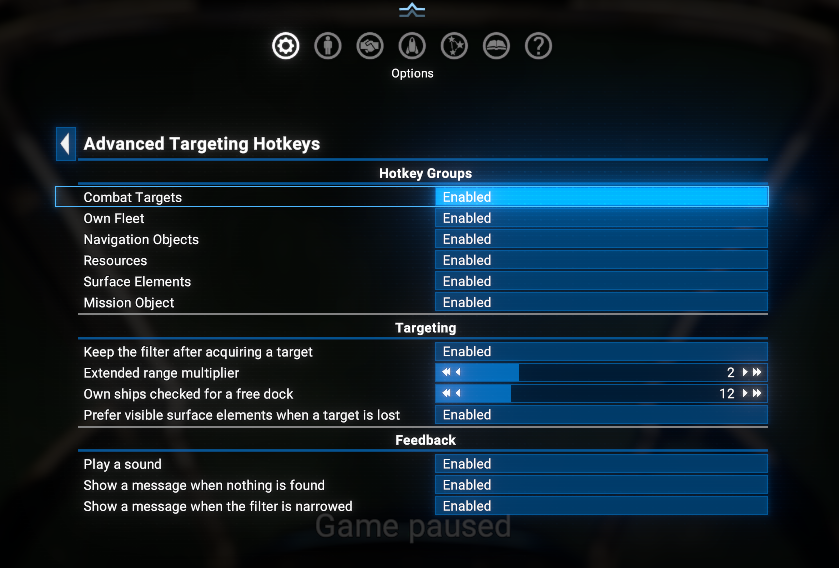
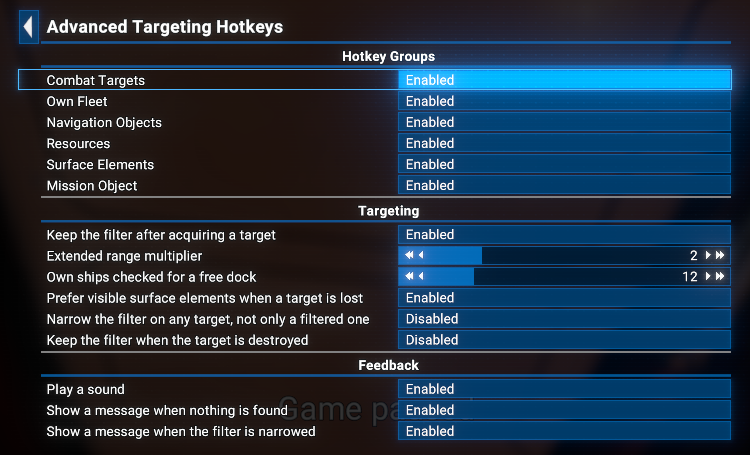
feat: version 1.01, some fixes and improvements

diff --git a/README.md b/README.md
@@ -22,7 +22,7 @@ Losing a target is the one case where the filter isn't dropped. For enemies, inc
 - When the last element of a kind is gone you get **the hull itself**, never a different kind of element, and any type narrowing is cleared with it.
 - If the category is empty, nothing happens at all - no sound, no message, target left alone.
 
-Navigation categories - own ships, stations, gates, asteroids, mission targets - deliberately don't do this.
+Navigation categories - own ships, stations, gates, asteroids, mission targets - deliberately don't do this. By default, destroying the target there drops the filter like any other target change; with **Keep the filter when the target is destroyed** on, the category and any type narrowing stay, and Next/Previous carry on from there.
 
 ## Requirements
 
@@ -40,6 +40,10 @@ Navigation categories - own ships, stations, gates, asteroids, mission targets -
 
 - **Steam Workshop**: [Advanced Targeting Hotkeys](https://steamcommunity.com/sharedfiles/filedetails/?id=3775194109) - only for **Game version 9.00** with latest Steam version of the `UI Extensions and HUD` mod (indirectly).
 - **Nexus Mods**: [Advanced Targeting Hotkeys](https://www.nexusmods.com/x4foundations/mods/2278)
+
+## Save state
+
+**No** (removing the extension does not break saves).
 
 ## Hotkeys
 
@@ -63,7 +67,7 @@ Each of these targets the nearest match and switches the filter to that category
 - **Target Engine on Selected Object** - same, restricted to engines.
 - **Target Turret on Selected Object** - same, restricted to turrets and launchers.
 - **Target Shield Generator on Selected Object** - same, restricted to shield generators.
-- **Target Active Mission Object** - the object your current mission points at.
+- **Target Active Mission Object** - the next thing to fly to for your active mission: the gate or highway entrance on the route to its objective.
 
 The four surface-element hotkeys work on the object **you have selected** and on nothing else: select a carrier across the sector and you get that carrier's turrets, not those of the fighter next to you. With a surface element already selected they stay on the same hull, and so does Next/Previous. With nothing selected they fall back to the last hull you worked on; with no previous hull they do nothing and say so. Docked ships are never included, so cycling a carrier's turrets won't wander into its bays.
 
@@ -75,7 +79,7 @@ The four surface-element hotkeys work on the object **you have selected** and on
 - **Target Along Line of Sight** - picks whatever you're looking at.
 - **Narrow Filter to Selected Type** - pins the active filter to the type of the selected object.
 
-**Narrow Filter to Selected Type** needs a target one of this mod's hotkeys put there. It's set-only, not a toggle - pressing it again changes nothing, since everything you can cycle to is already of that type. It goes away exactly when the filter does.
+**Narrow Filter to Selected Type** needs a target one of this mod's category hotkeys put there, and **Keep the filter after acquiring a target** on. With **Narrow the filter on any target** switched on it works on anything you have targeted (a line-of-sight pick, a mouse click): Next/Previous then walk every visible object of that one type. It's set-only, not a toggle - pressing it again changes nothing, since everything you can cycle to is already of that type. It goes away exactly when the filter does.
 
 **Target Along Line of Sight** starts from a one-degree cone dead ahead and widens in steps to 25 degrees, stopping at the first hit, so what's under your crosshair wins over what's merely in front of you. Surface elements are searched at each step, with a range limit that tightens as the cone widens, so a wide sweep can't snap you onto a turret on a distant station.
 
@@ -121,6 +125,8 @@ Everything is configurable under **Options > Hotkey Management > Advanced Target
 - **Extended range multiplier** (`2`) - how far beyond radar range large and already-known objects stay pickable.
 - **Own ships checked for a free dock** (`12`) - caps the docking-bay scan behind *Target Nearest Own Ship for Landing*.
 - **Prefer visible surface elements when a target is lost** (on) - hand over to an element you have line of sight to rather than one hidden behind the hull.
+- **Narrow the filter on any target, not only a filtered one** (off) - lets *Narrow Filter to Selected Type* work on a target picked by line of sight or by mouse.
+- **Keep the filter when the target is destroyed** (off) - in the categories that don't hand over automatically (stations, gates, asteroids, own ships, free cycling), destroying or collecting the target keeps the category and any type narrowing, so Next/Previous carry on where you were. Deselecting a target yourself still clears the filter.
 
 **Feedback**:
 
@@ -161,10 +167,18 @@ You then get one line per key press (which hotkey, which filter, what got target
 
 ## Changelog
 
-### [1.01] - 2026-08-??
+### [1.01] - 2026-10-13
 
+- **Added**
+  - Option **Narrow the filter on any target, not only a filtered one**.
+  - Option **Keep the filter when the target is destroyed**.
+- **Changed**
+  - **Target Active Mission Object** selects the gate on the route to the mission objective.
 - **Fixed**
-  - The "no matching target" notifications never appeared - the message text was assembled in a way the script parser rejected.
+  - The "no matching target" notifications never appeared.
+  - Every targeting hotkey wrote a script error to the game log.
+  - Script errors in the game log on the first load into an existing save.
+  - An enemy whose pilot bailed out stayed selected.
 
 ### [1.00] - 2026-07-31
 
